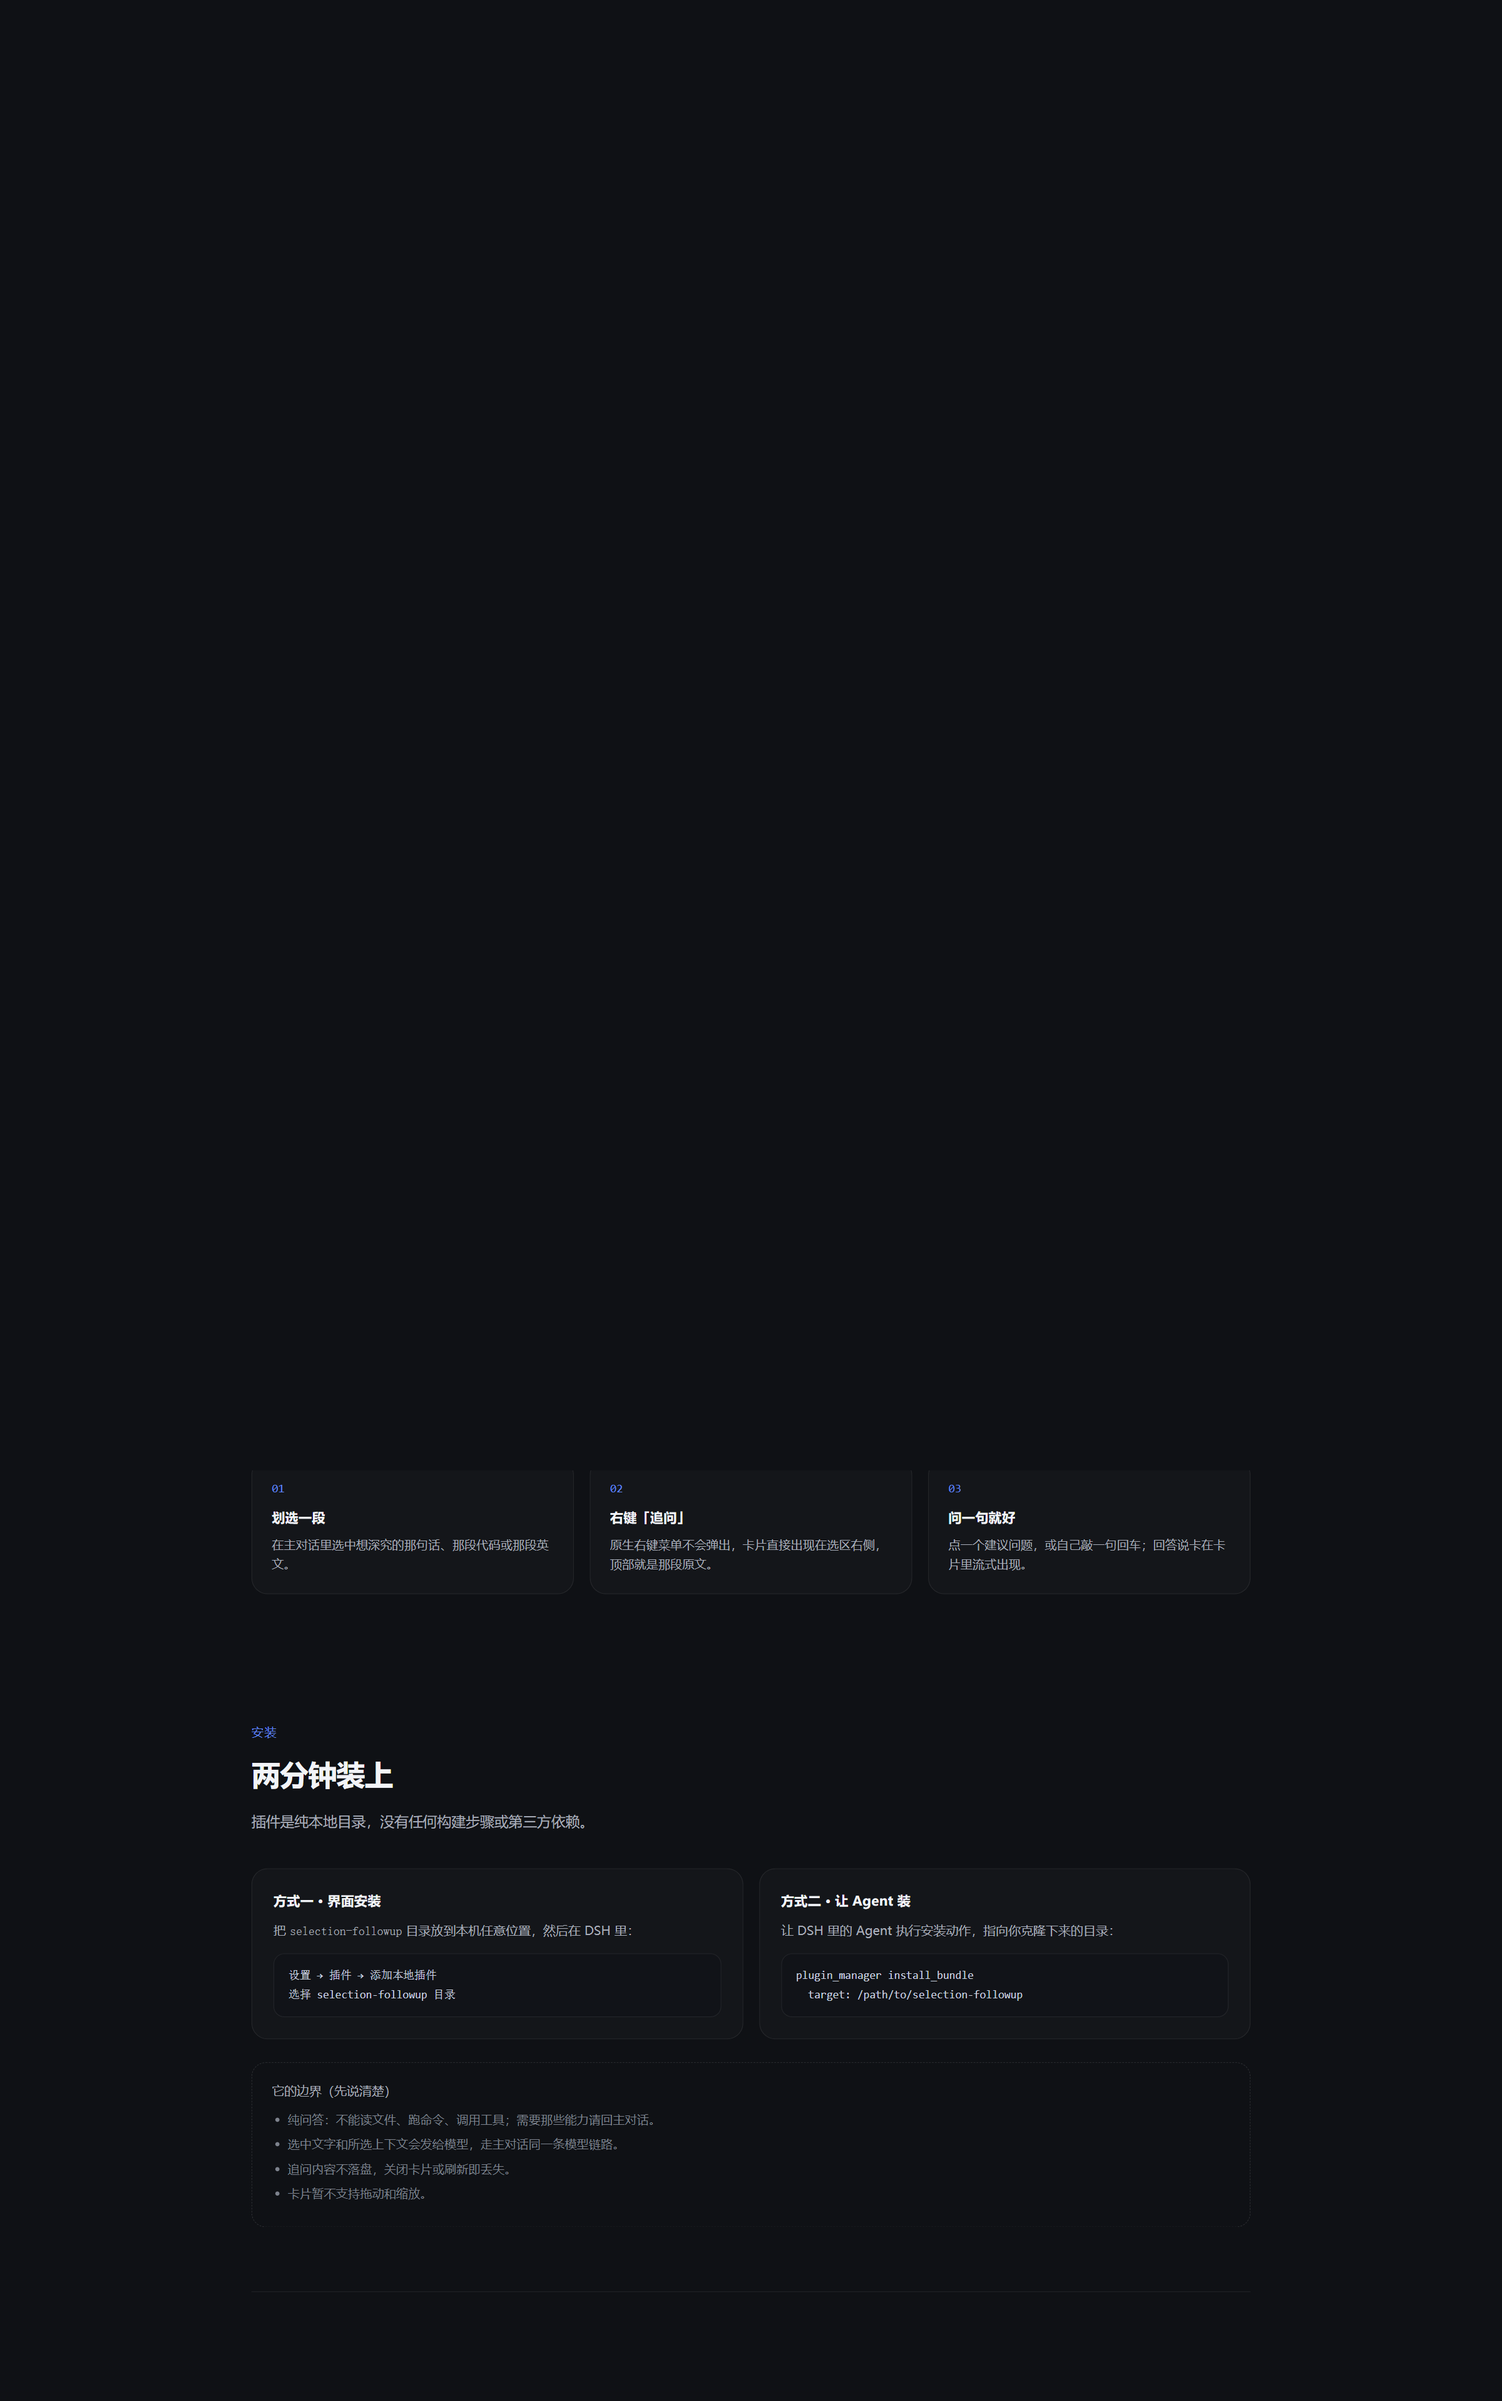
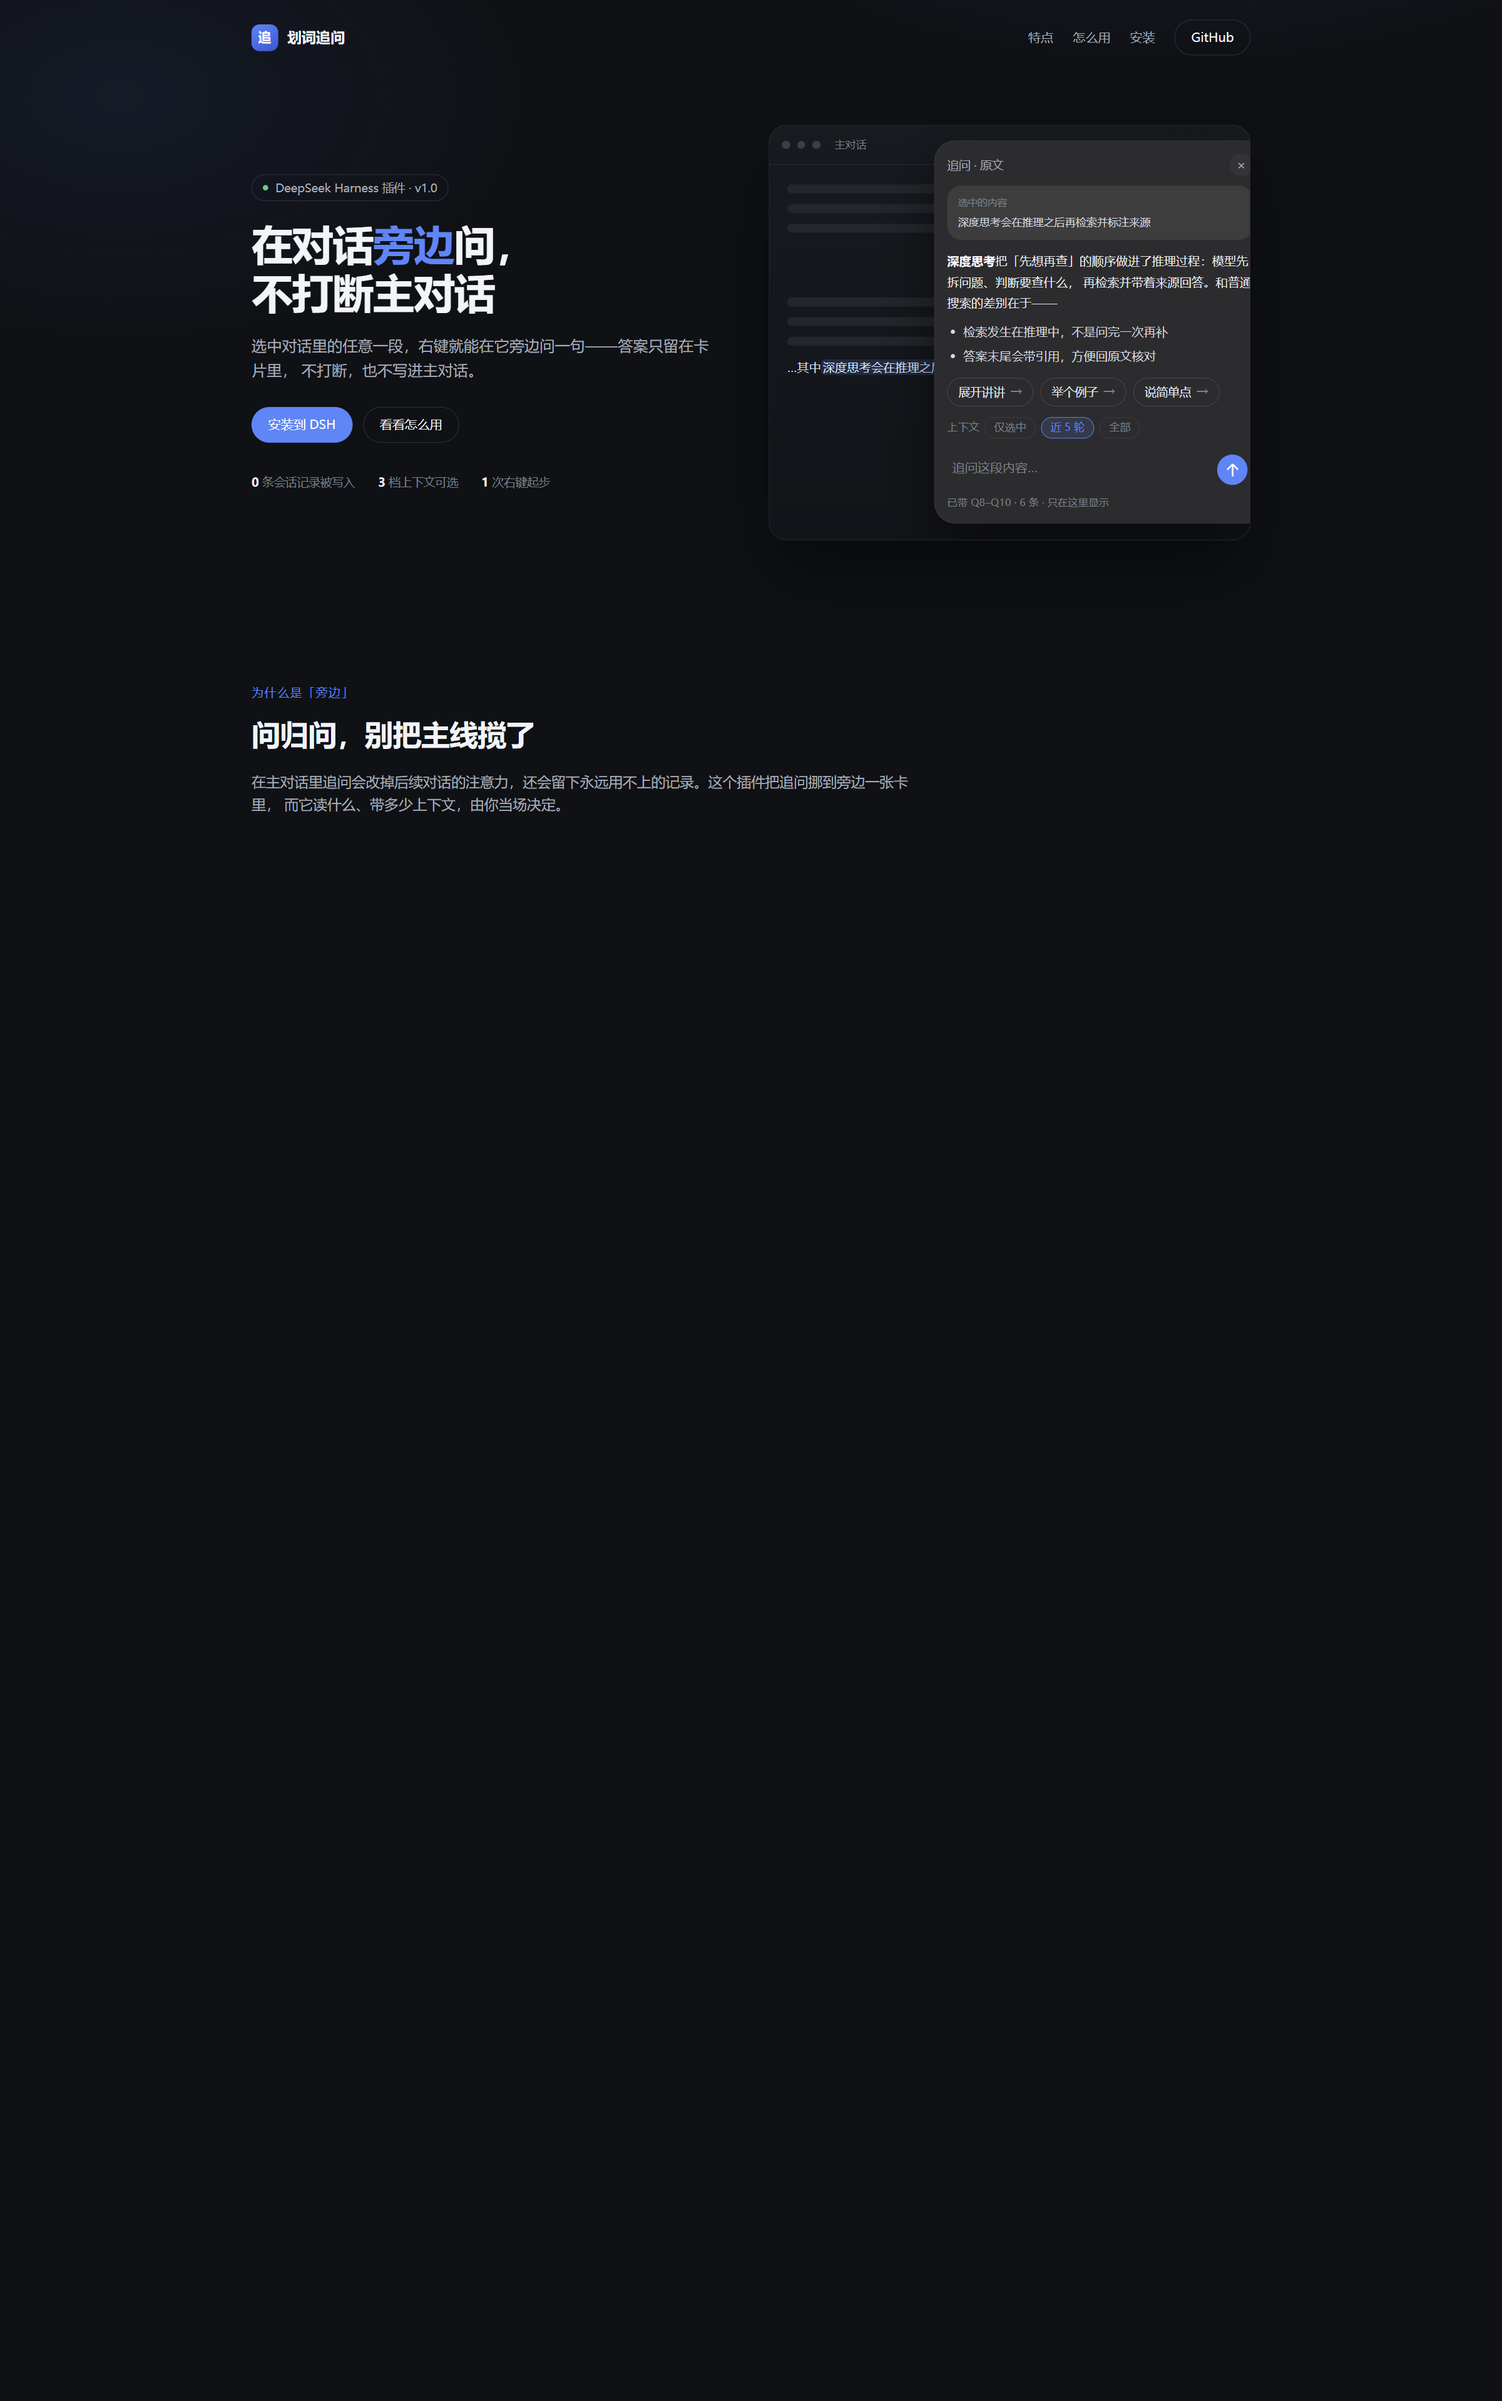
docs: 首屏换一句话副标题并更新截图

diff --git a/site/index.html b/site/index.html
@@ -188,8 +188,8 @@
           <span class="badge"><span class="dot"></span> DeepSeek Harness 插件 · v1.0</span>
           <h1>在对话<em>旁边</em>问，<br>不打断主对话</h1>
           <p class="lede">
-            读到一段想深究的内容，选中它、右键「追问」，右侧浮出一张小卡片专门回答这句话。
-            回答只留在卡片里——不新建会话、不写进日志、不把你的注意力从正文上拽走。
+            选中对话里的任意一段，右键就能在它旁边问一句——答案只留在卡片里，
+            不打断，也不写进主对话。
           </p>
           <div class="actions">
             <a class="btn btn-primary" href="#install">安装到 DSH</a>
